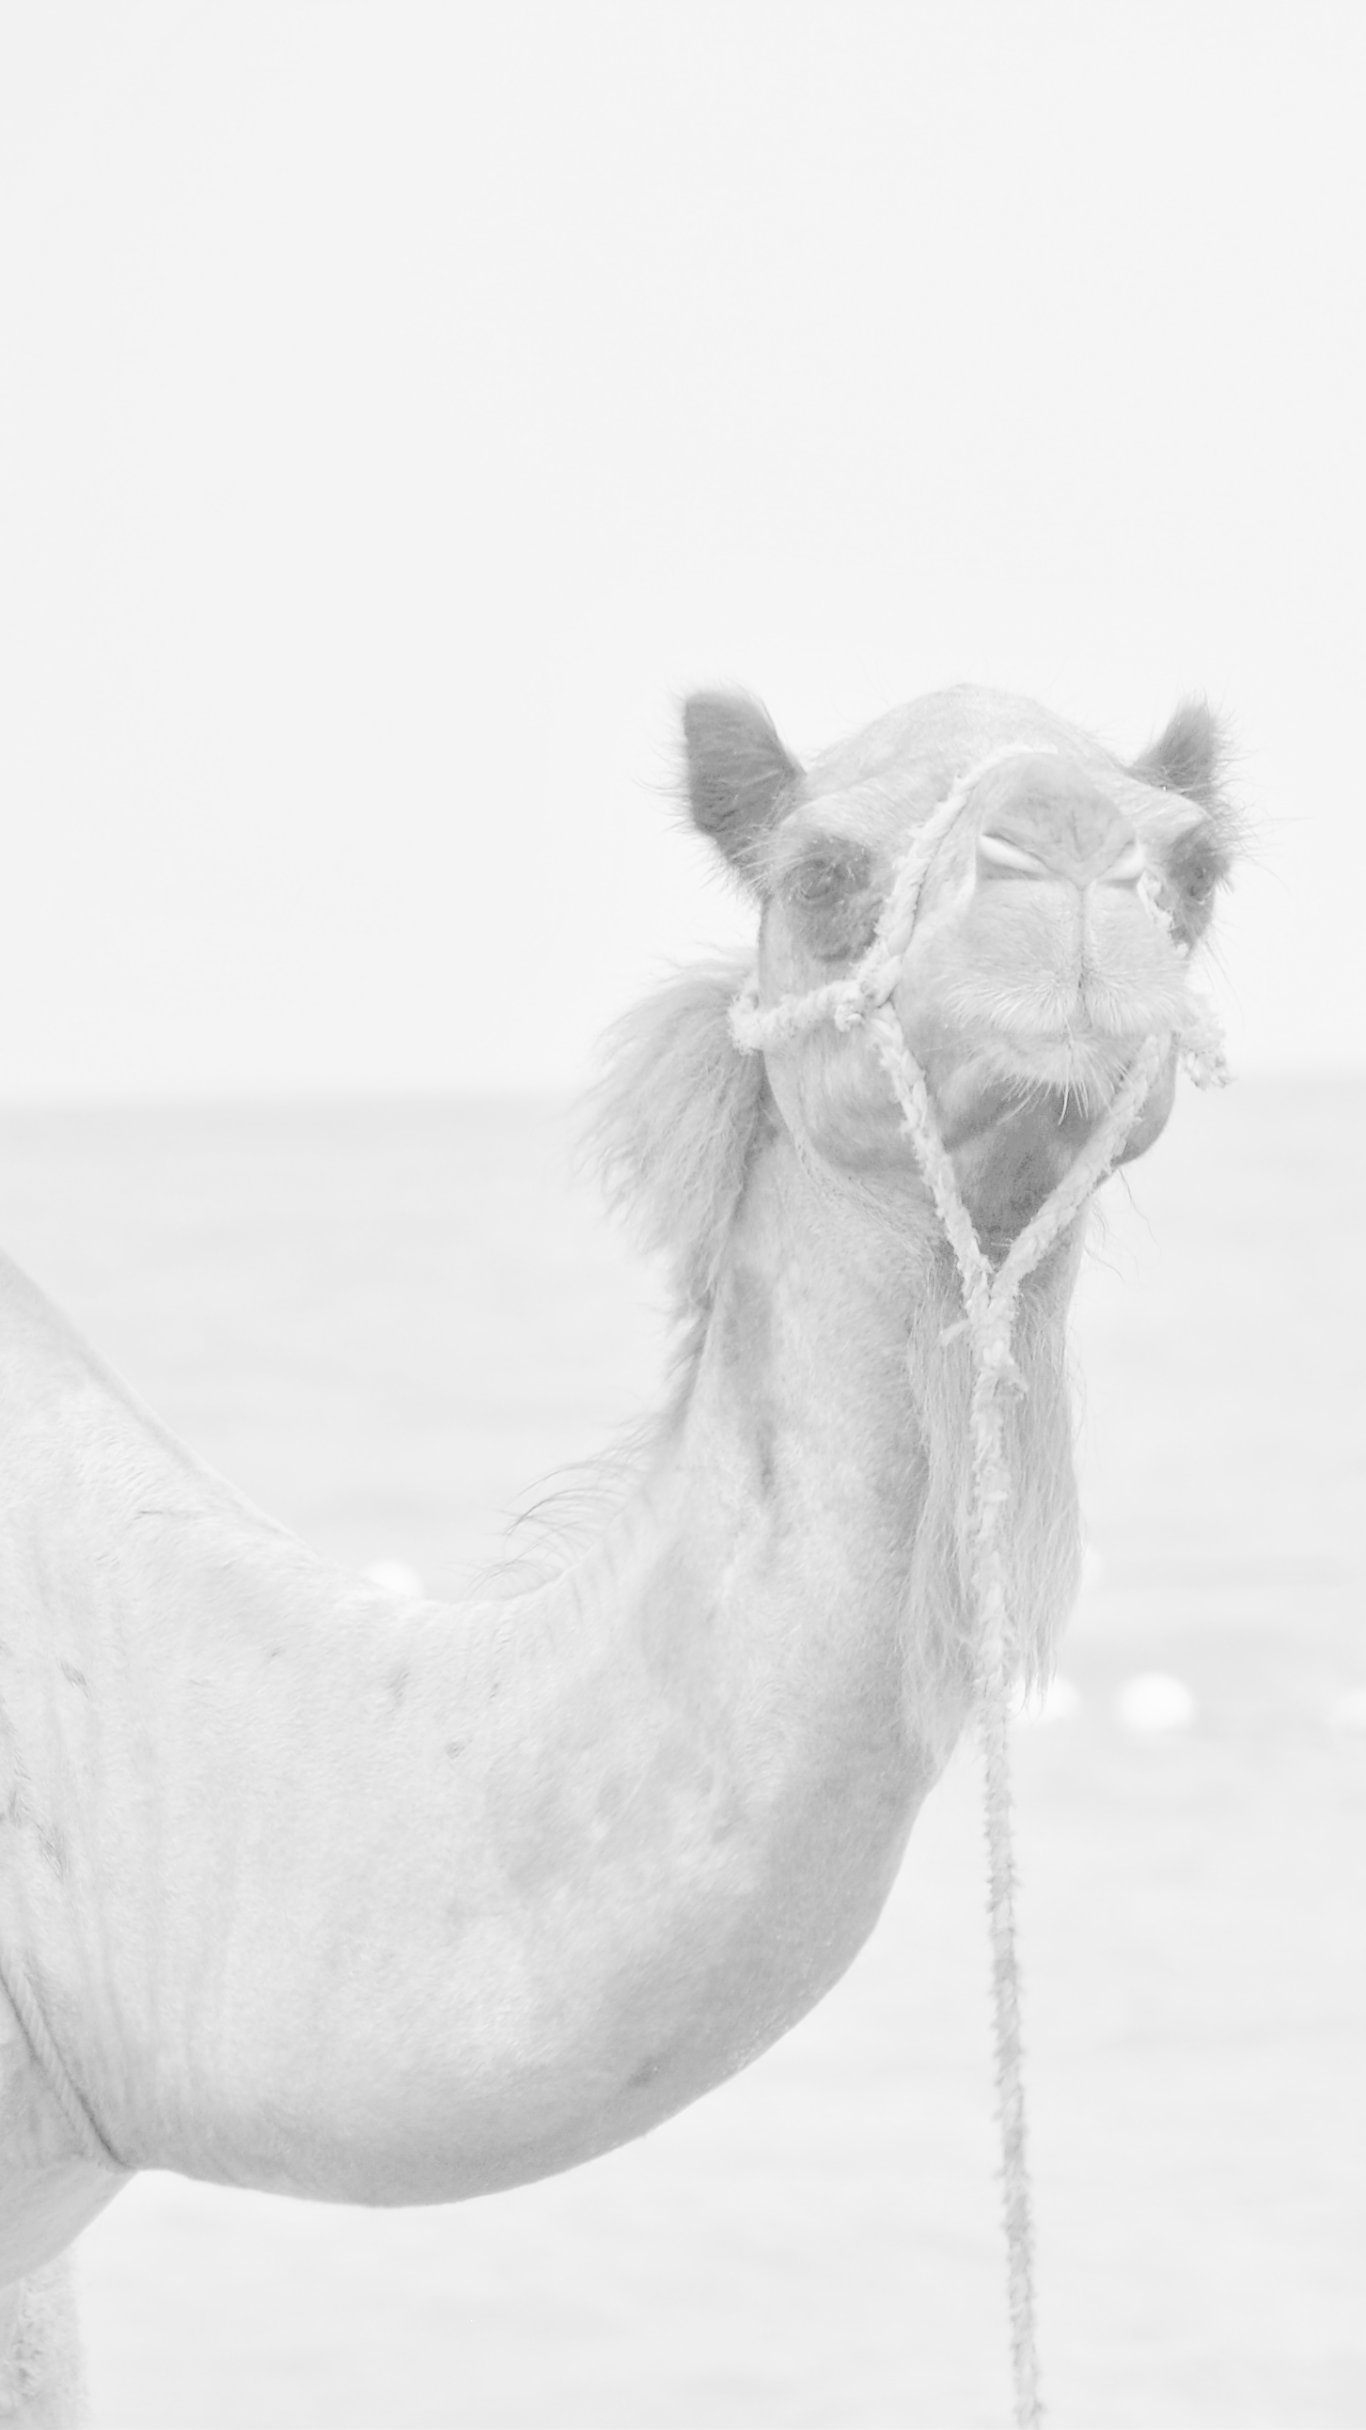
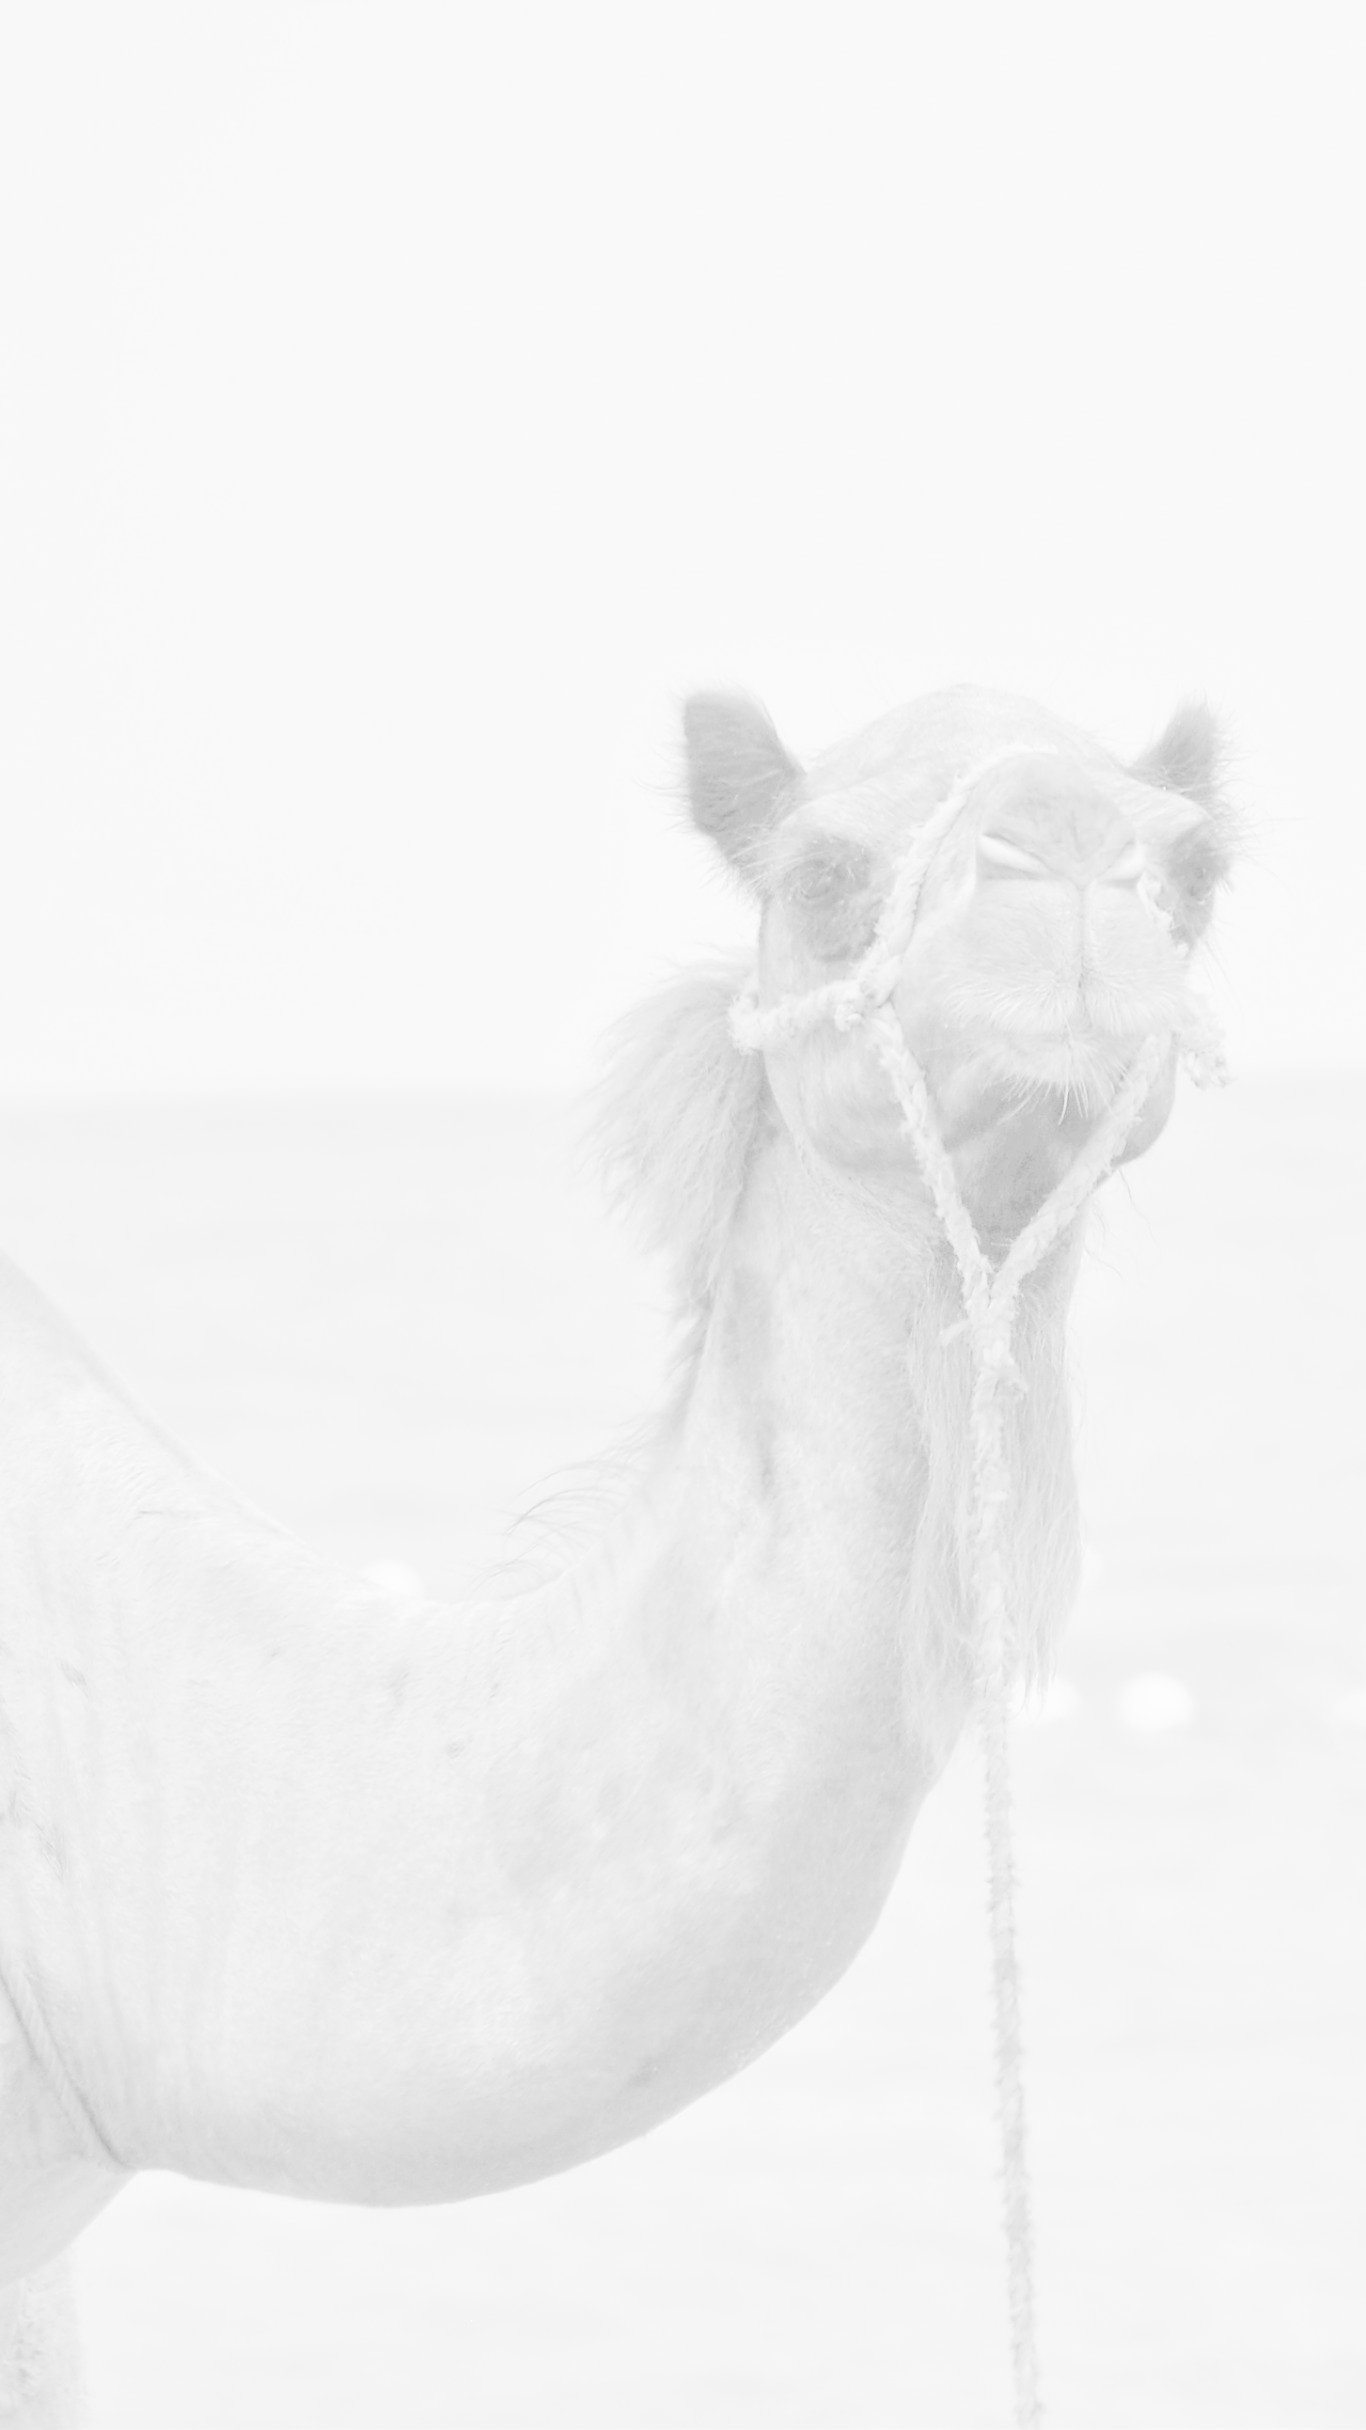
Optimising images for quick loading

Changed region(s): [[0.0, 0.2778, 0.8609, 0.9259], [0.7072, 0.2778, 0.8917, 0.4012], [0.0, 0.9568, 0.0307, 1.0]]

diff --git a/_site/index.html b/_site/index.html
@@ -9,10 +9,10 @@
   	<link rel="stylesheet" type="text/css" href="/assets/css/style.css">
 	<script src="/assets/js/jquery-3.4.1.min.js"></script>
 	<script src="/assets/js/bootstrap.bundle.js"></script>
-	<link rel="shortcut icon" type="image/png" href="/favicon.png">
+	<link rel="shortcut icon" type="image/jpg" href="/favicon.jpg">
 
 </head>
-<body style="background-image: url(/assets/images/home_background.png); background-size: cover; background-repeat: no-repeat">
+<body style="background-image: url(/assets/images/home_background.jpg); background-size: cover; background-repeat: no-repeat">
 		<nav class="navbar navbar-expand-lg navbar-dark" style="background: inherit; font-family: Georgia">
   	    <a class="navbar-brand h1" href="/">T. Abwao - Home</a>
   	    <button class="navbar-toggler" type="button" data-toggle="collapse" data-target="#navbarSupportedContent" aria-controls="navbarSupportedContent" aria-expanded="false" aria-label="Toggle navigation">
@@ -43,21 +43,21 @@
     
     <div class='link-design' >
     	<a class='link-label' href="/blog">
-    		<img src="/assets/images/menu_blog_background.png">
+    		<img src="/assets/images/menu_blog_background.jpg">
     		<h3>Browse blog posts</h3>
     	</a>
     </div>
 
     <div class='link-design'>
     	<a class='link-label' href="/portfolio">
-    		<img src="/assets/images/menu_portfolio_background.png">
+    		<img src="/assets/images/menu_portfolio_background.jpg">
     		<h3>View portfolio</h3>
     	</a>
     </div>
 
     <div class='link-design'>
     	<a class='link-label' href="/about">
-    		<img src="/assets/images/menu_about_background.png">
+    		<img src="/assets/images/menu_about_background.jpg">
     		<h3>About</h3>
     	</a>
     </div>

diff --git a/index.html b/index.html
@@ -11,10 +11,10 @@
   	<link rel="stylesheet" type="text/css" href="/assets/css/style.css">
 	<script src="/assets/js/jquery-3.4.1.min.js"></script>
 	<script src="/assets/js/bootstrap.bundle.js"></script>
-	<link rel="shortcut icon" type="image/png" href="/favicon.png">
+	<link rel="shortcut icon" type="image/jpg" href="/favicon.jpg">
 
 </head>
-<body style="background-image: url(/assets/images/home_background.png); background-size: cover; background-repeat: no-repeat">
+<body style="background-image: url(/assets/images/home_background.jpg); background-size: cover; background-repeat: no-repeat">
 	{% include nav.html %}
 
     <div style="margin: 450px 10%;">
@@ -23,21 +23,21 @@
     
     <div class='link-design' >
     	<a class='link-label' href="/blog">
-    		<img src="/assets/images/menu_blog_background.png">
+    		<img src="/assets/images/menu_blog_background.jpg">
     		<h3>Browse blog posts</h3>
     	</a>
     </div>
 
     <div class='link-design'>
     	<a class='link-label' href="/portfolio">
-    		<img src="/assets/images/menu_portfolio_background.png">
+    		<img src="/assets/images/menu_portfolio_background.jpg">
     		<h3>View portfolio</h3>
     	</a>
     </div>
 
     <div class='link-design'>
     	<a class='link-label' href="/about">
-    		<img src="/assets/images/menu_about_background.png">
+    		<img src="/assets/images/menu_about_background.jpg">
     		<h3>About</h3>
     	</a>
     </div>

diff --git a/about.html b/about.html
@@ -5,12 +5,12 @@ title: Tim Abwao | About
 ---
 	<style>
 		body {
-	  		background: black url( /assets/images/about_background_wide.png) no-repeat fixed; background-size: cover;
+	  		background: black url( /assets/images/about_background_wide.jpg) no-repeat fixed; background-size: cover;
 		}
 
 		@media only screen and (max-width: 768px) {
 	  		body {
-	    		background: black url(/assets/images/about_background.png) no-repeat fixed; background-size: cover;
+	    		background: black url(/assets/images/about_background.jpg) no-repeat fixed; background-size: cover;
 	  		}
 		}
 
@@ -20,7 +20,7 @@ title: Tim Abwao | About
 {% include nav.html %}
 	<div class="personal-info">
 		<p>My name is Timothy Abwao, and I live in Kenya. I've completed an undergraduate course in Statistics, and plan to build a career in Data Science. I'm currently exploring the various technologies & tools available, and their appropriate real-world applications.</P>
-		<p>I believe that with determination, faith, imagination and a fairly nice plan, anyone can accomplish even their wildest dreams. And so, through learning and practice, I'm working towards being a really good Data Scientist.</P>
+		<p>I believe that with determination, faith, imagination and a fairly nice plan; anyone can accomplish even their wildest dreams. And so, through learning and practice, I'm working towards being a really good Data Scientist.</P>
 		
 		
 		

diff --git a/blog.html b/blog.html
@@ -5,11 +5,11 @@ title: Tim Abwao | Data Science Blog
 	<meta name="description" content="A blog to share some of the insights and experiences from my journey in Data Science.">
 	<style>
 		body {
-	  		background: black url( /assets/images/blog_background_wide.png) no-repeat fixed; background-size: cover;
+	  		background: black url( /assets/images/blog_background_wide.jpg) no-repeat fixed; background-size: cover;
 		}
 		@media only screen and (max-width: 768px) {
 	  		body {
-	    		background: black url( /assets/images/blog_background.png) no-repeat fixed; background-size: cover;
+	    		background: black url( /assets/images/blog_background.jpg) no-repeat fixed; background-size: cover;
 	  		}
 		}
 	</style>

diff --git a/portfolio.html b/portfolio.html
@@ -4,7 +4,7 @@ title: Tim Abwao | Portfolio
 ---
 
 </head>
-<body style="background: black url(/assets/images/portfolio_background.png) no-repeat fixed; background-size: cover; color: white; font-family: Georgia;" >
+<body style="background: black url(/assets/images/portfolio_background.jpg) no-repeat fixed; background-size: cover; color: white; font-family: Georgia;" >
 {% include nav.html %}
 <div style="margin: 5%; border-radius: 10px; padding: 5%; background-color: rgb(0,0,0,0.5);">
 <h1>GitHub Projects:</h1>

diff --git a/assets/css/style.css b/assets/css/style.css
@@ -38,7 +38,7 @@
 .link-label img {
 	max-width: 450px;
 	border-radius: 15px;
-	box-shadow: 0 10px 20px 0 rgba(0, 0, 0, 0.3), 0 12px 30px 0 rgba(0, 0, 0, 0.25);
+	box-shadow: 0 10px 20px 0 rgba(0, 0, 0, 0.3);
 }
 .link-label h3 {
 	color: #000;

diff --git a/_posts/2019-10-02-How-To-Connect-To-PostgreSQL-Databases-Using-Python.md b/_posts/2019-10-02-How-To-Connect-To-PostgreSQL-Databases-Using-Python.md
@@ -1,0 +1,15 @@
+---
+author: Abwao
+layout: post
+---
+[PostgreSQL](https://www.postgresql.org) is a **fast**, **reliable** and **open source**(free) [object-relational database management system](https://database.guide/what-is-an-ordbms) (*it stores data in relations: which are really just tables with rows and columns*). It can hold databases as large as 32TB, with virtually unlimited rows. This makes it an ideal choice for many companies dealing with large volumes of data.
+
+## Psycopg2 - Python's Vessel to Postgres
+[Psycopg](http://initd.org/psycopg/docs) is a **robust** Python adaptor for PostgreSQL. It enables one to connect to PostgreSQL servers, create database and run various operations and [SQL](http://www.sqlcourse.com/intro.html) queries, right from within Python scripts. 
+
+It comes in handy for applications written in Python that need to store and/or retrieve data in a PostgreSQL database e.g. flask/django websites & blogs, data analysis apps, report-generating apps, etc.
+
+## Psycopg2 Basics
+sqlalchemy or standalone
+
+You can explore some of Psycopg's features using [this jupyter notebook](https://github.com/Tim-Abwao/Psycopg2-Basics/blob/master/PostgreSQL%20Basics%20with%20Psycopg2.ipynb)

diff --git a/_posts/2019-08-26-Demand-Forecasting-For-Perishables.md b/_posts/2019-08-26-Demand-Forecasting-For-Perishables.md
@@ -2,7 +2,7 @@
 layout: post
 author: Abwao
 ---
-[Demand forecasting](https://en.wikipedia.org/wiki/Demand_forecasting){:target="_blank"} "tries to understand and predict customer demand" so as to "optimize supply decisions". It has the potential to minimise, and even completely eliminate losses resulting from spoilt items.
+[Demand forecasting](https://en.wikipedia.org/wiki/Demand_forecasting) can be described as the analysis of data predictive methods to estimate the demand for products. It has the potential to minimise, and even completely eliminate losses resulting from spoilt items.
 
 Perishable goods are often defined as items that have a short shelf-life: things like vegetables, fruits, milk, meat and fish, among others. Some can stay fresh for only a few hours, but grocery stores and supermarkets have to keep them in stock and available to customers.
 
